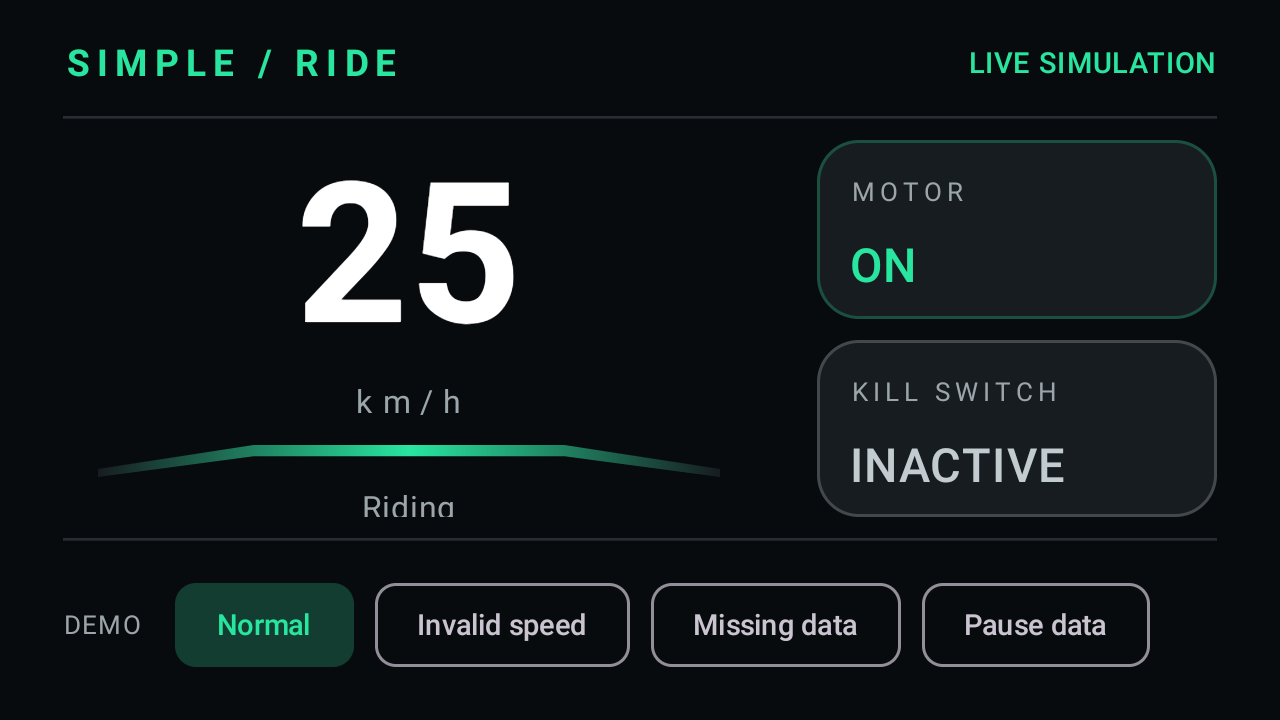
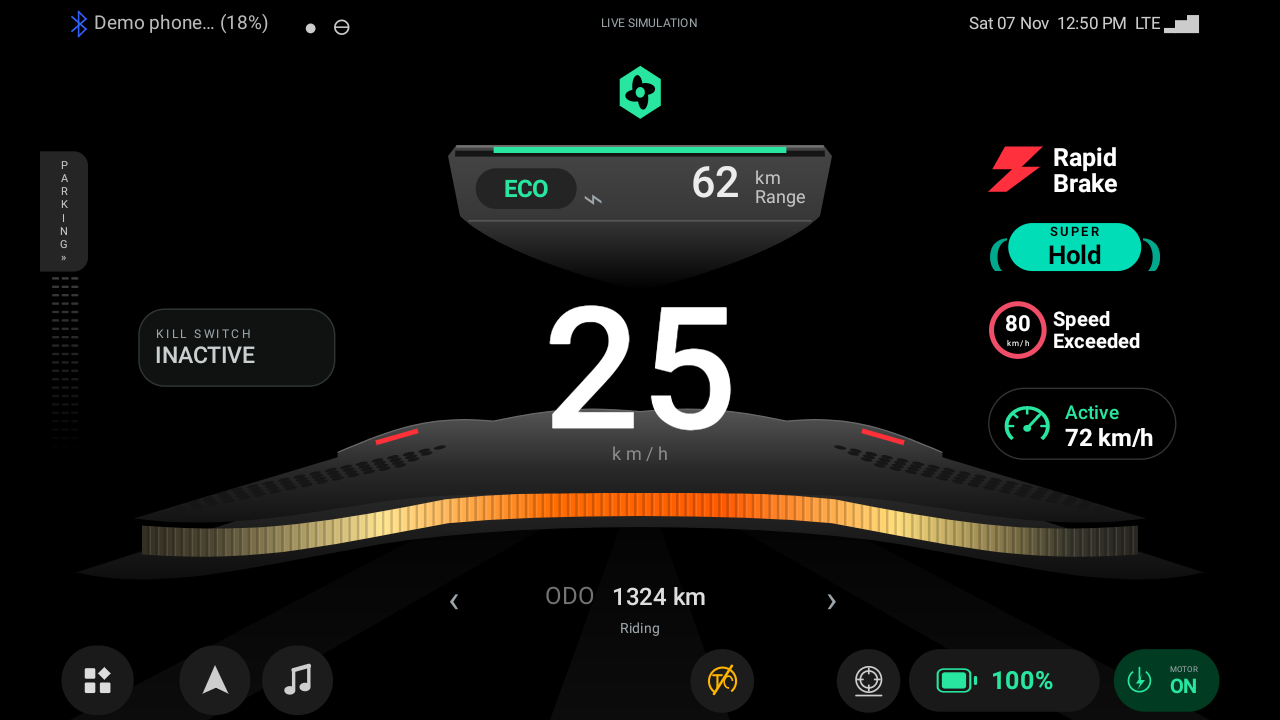
Verify the reference layout and simulator menu
Exercise all live scenarios and failure recovery on Android 11, check the menu labels, and refresh the screenshot evidence and documentation.

diff --git a/app/src/androidTest/java/com/example/hmi/DashboardRunTest.kt b/app/src/androidTest/java/com/example/hmi/DashboardRunTest.kt
@@ -5,6 +5,7 @@ import androidx.compose.ui.test.assertIsDisplayed
 import androidx.compose.ui.test.junit4.createAndroidComposeRule
 import androidx.compose.ui.test.onAllNodesWithText
 import androidx.compose.ui.test.onNodeWithText
+import androidx.compose.ui.test.onNodeWithContentDescription
 import androidx.compose.ui.test.performClick
 import androidx.test.ext.junit.runners.AndroidJUnit4
 import androidx.test.platform.app.InstrumentationRegistry
@@ -35,37 +36,49 @@ class DashboardRunTest {
             capture("${index + 1}-${scenario.lowercase().replace(' ', '-')}")
         }
 
-        screen.onNodeWithText("Invalid speed").performClick()
+        selectMode("Invalid speed")
         awaitText("Invalid speed reading")
         screen.onNodeWithText("—").assertIsDisplayed()
         screen.onNodeWithText("ON").assertIsDisplayed()
         capture("7-invalid-speed")
 
-        screen.onNodeWithText("Missing data").performClick()
+        selectMode("Missing data")
         awaitText("Speed signal unavailable")
         check(screen.onAllNodesWithText("UNAVAILABLE").fetchSemanticsNodes().size == 2)
         screen.onAllNodesWithText("UNAVAILABLE")[0].assertIsDisplayed()
         screen.onAllNodesWithText("UNAVAILABLE")[1].assertIsDisplayed()
         capture("8-missing-data")
 
-        screen.onNodeWithText("Normal").performClick()
+        selectMode("Normal")
         awaitText("Parked")
-        screen.onNodeWithText("Pause data").performClick()
+        selectMode("Pause data")
         awaitText("DATA STALE · LAST READING HIDDEN")
         screen.onNodeWithText("—").assertIsDisplayed()
         check(screen.onAllNodesWithText("UNAVAILABLE").fetchSemanticsNodes().size == 2)
         capture("9-stale-data")
 
-        screen.onNodeWithText("Normal").performClick()
+        selectMode("Normal")
         awaitText("Ready")
         screen.onNodeWithText("LIVE SIMULATION").assertIsDisplayed()
         screen.onNodeWithText("ON").assertIsDisplayed()
         capture("10-recovered")
     }
 
+    private fun selectMode(label: String) {
+        screen.onNodeWithContentDescription("Simulation controls").performClick()
+        capture("menu-before-selection")
+        screen.onNodeWithText(label).assertIsDisplayed().performClick()
+        capture("menu-after-selection")
+    }
+
     private fun awaitText(text: String) {
-        screen.waitUntil(timeoutMillis = 20_000) {
-            screen.onAllNodesWithText(text).fetchSemanticsNodes().isNotEmpty()
+        try {
+            screen.waitUntil(timeoutMillis = 20_000) {
+                screen.onAllNodesWithText(text).fetchSemanticsNodes().isNotEmpty()
+            }
+        } catch (failure: Throwable) {
+            capture("failure")
+            throw failure
         }
     }
 

diff --git a/README.md b/README.md
@@ -62,7 +62,7 @@ Normal mode repeats this sequence at one-second intervals:
 
 The first reading is emitted immediately. Coasting is an additional scenario demonstrating that motor OFF does not imply zero speed.
 
-Use the bottom controls to explore edge cases:
+Open the grid button at the bottom left to choose a simulation mode:
 
 - **Invalid speed:** emits a negative speed while keeping valid motor and kill-switch signals.
 - **Missing data:** emits unavailable values for all three signals.
@@ -93,20 +93,23 @@ The JVM tests use virtual coroutine time, so they do not wait for real one-secon
 
 ## Design and scope
 
-The design follows the reference's dark landscape layout, central speed reading, green accents and peripheral status indicators. The motor status remains separate from the kill switch, whose location is not specified in the reference.
+The dashboard recreates the reference's composition: black background, central white speed, green mode badge, sculpted ECO/range tray, shaded lower wings, orange illuminated band, right-side alert stack, odometer and circular bottom controls. The motor pill is at the bottom right. The required kill-switch indicator occupies the reference's open left-hand area because it has no specified location in the image.
 
-The curved strip is decorative; it indicates movement and is not a calibrated analogue gauge. Alerts, maps, phone pairing, battery/range estimates, ride modes and 3D effects from the production reference are not implemented. The app does not pretend to have live values for these optional features.
+`DashboardArtwork` draws the panels, lighting, vents and icons with Compose Canvas paths and gradients. `ReferenceViewport` scales a 1000 × 600 design canvas uniformly to fit the display, preserving the artwork's proportions. Different aspect ratios can have black margins. This is a drawn approximation of the reference; the original fonts, icon vectors and 3D assets were not supplied.
 
-UI copy is currently English-only. The dashboard was verified on an Android 11 emulator in landscape at 1280 × 720 and 420 dpi. Other Android versions and physical devices have not been tested. Compact displays use smaller status panels and omit optional descriptive text so required signals remain visible. System bars are hidden and can be revealed with a swipe.
+Speed, motor, kill switch and data health are reactive. ECO, 62 km range, 100% battery, 1324 km odometer, phone/connectivity badges, Rapid Brake, SuperHold, speed warning and cruise-control graphics are static reference illustrations. They are not calculated vehicle signals or working vehicle controls. The clock shows the time when the screen is opened. The grid button opens the functional simulation menu; maps, music and auxiliary icons are decorative.
+
+UI copy is currently English-only. The dashboard was verified on an Android 11 emulator in landscape at 1280 × 720 and 420 dpi. Other Android versions and physical devices have not been tested. System bars are hidden and can be revealed with a swipe.
 
 ## Verification recorded on 7 November 2026
 
 - Debug APK: built successfully.
 - Unit tests: 9 passed, 0 failures or errors.
-- Android lint: completed with 0 errors and 12 warnings. These concern newer dependency/target SDK versions, fixed landscape orientation, backup configuration and the missing launcher icon. The landscape restriction is intentional for this assignment.
+- Android lint: completed with 0 errors and 13 warnings. These concern newer dependency/target SDK versions, fixed landscape orientation, backup configuration, the missing launcher icon and a Compose modifier default. The landscape restriction is intentional for this assignment.
 - Android 11 on-device verification: 1 test passed, covering six live scenarios and four edge/recovery states, with ten screenshots captured and visually inspected.
-- The first emulator run exposed clipping on compact displays. The layout now sizes the speed reading from the available body height and uses compact status panels. The on-device checks assert visibility of the required values.
-- A 12.56-second live screen recording was captured, and the emulator crash log had no entries.
+- The reference-style layout scales its artwork and text together to fit the viewport. The on-device checks assert visibility of the required values and operate the simulation menu through its grid button.
+- The final reference-style dashboard passed its on-device test in 37.763 seconds. The simulation menu labels were also visually checked after fixing their wrapping.
+- A fresh 12-second live screen recording was captured, and the emulator crash log had no entries.
 
 ![Riding on the emulator](docs/verification/riding.png)
 
@@ -118,7 +121,7 @@ On this Windows build host, Java needed a short Unix-domain socket temporary dir
 
 1. Launch on a landscape emulator and observe two complete six-second cycles.
 2. Confirm speed, motor and kill-switch values match the table above.
-3. Select Invalid speed; confirm only speed becomes unavailable.
+3. Open the bottom-left grid menu and select Invalid speed; confirm only speed becomes unavailable.
 4. Select Missing data; confirm all signals become unavailable.
 5. Select Normal, then Pause data; confirm the stale warning after three seconds.
 6. Select Normal again; confirm fresh readings restore the display.
